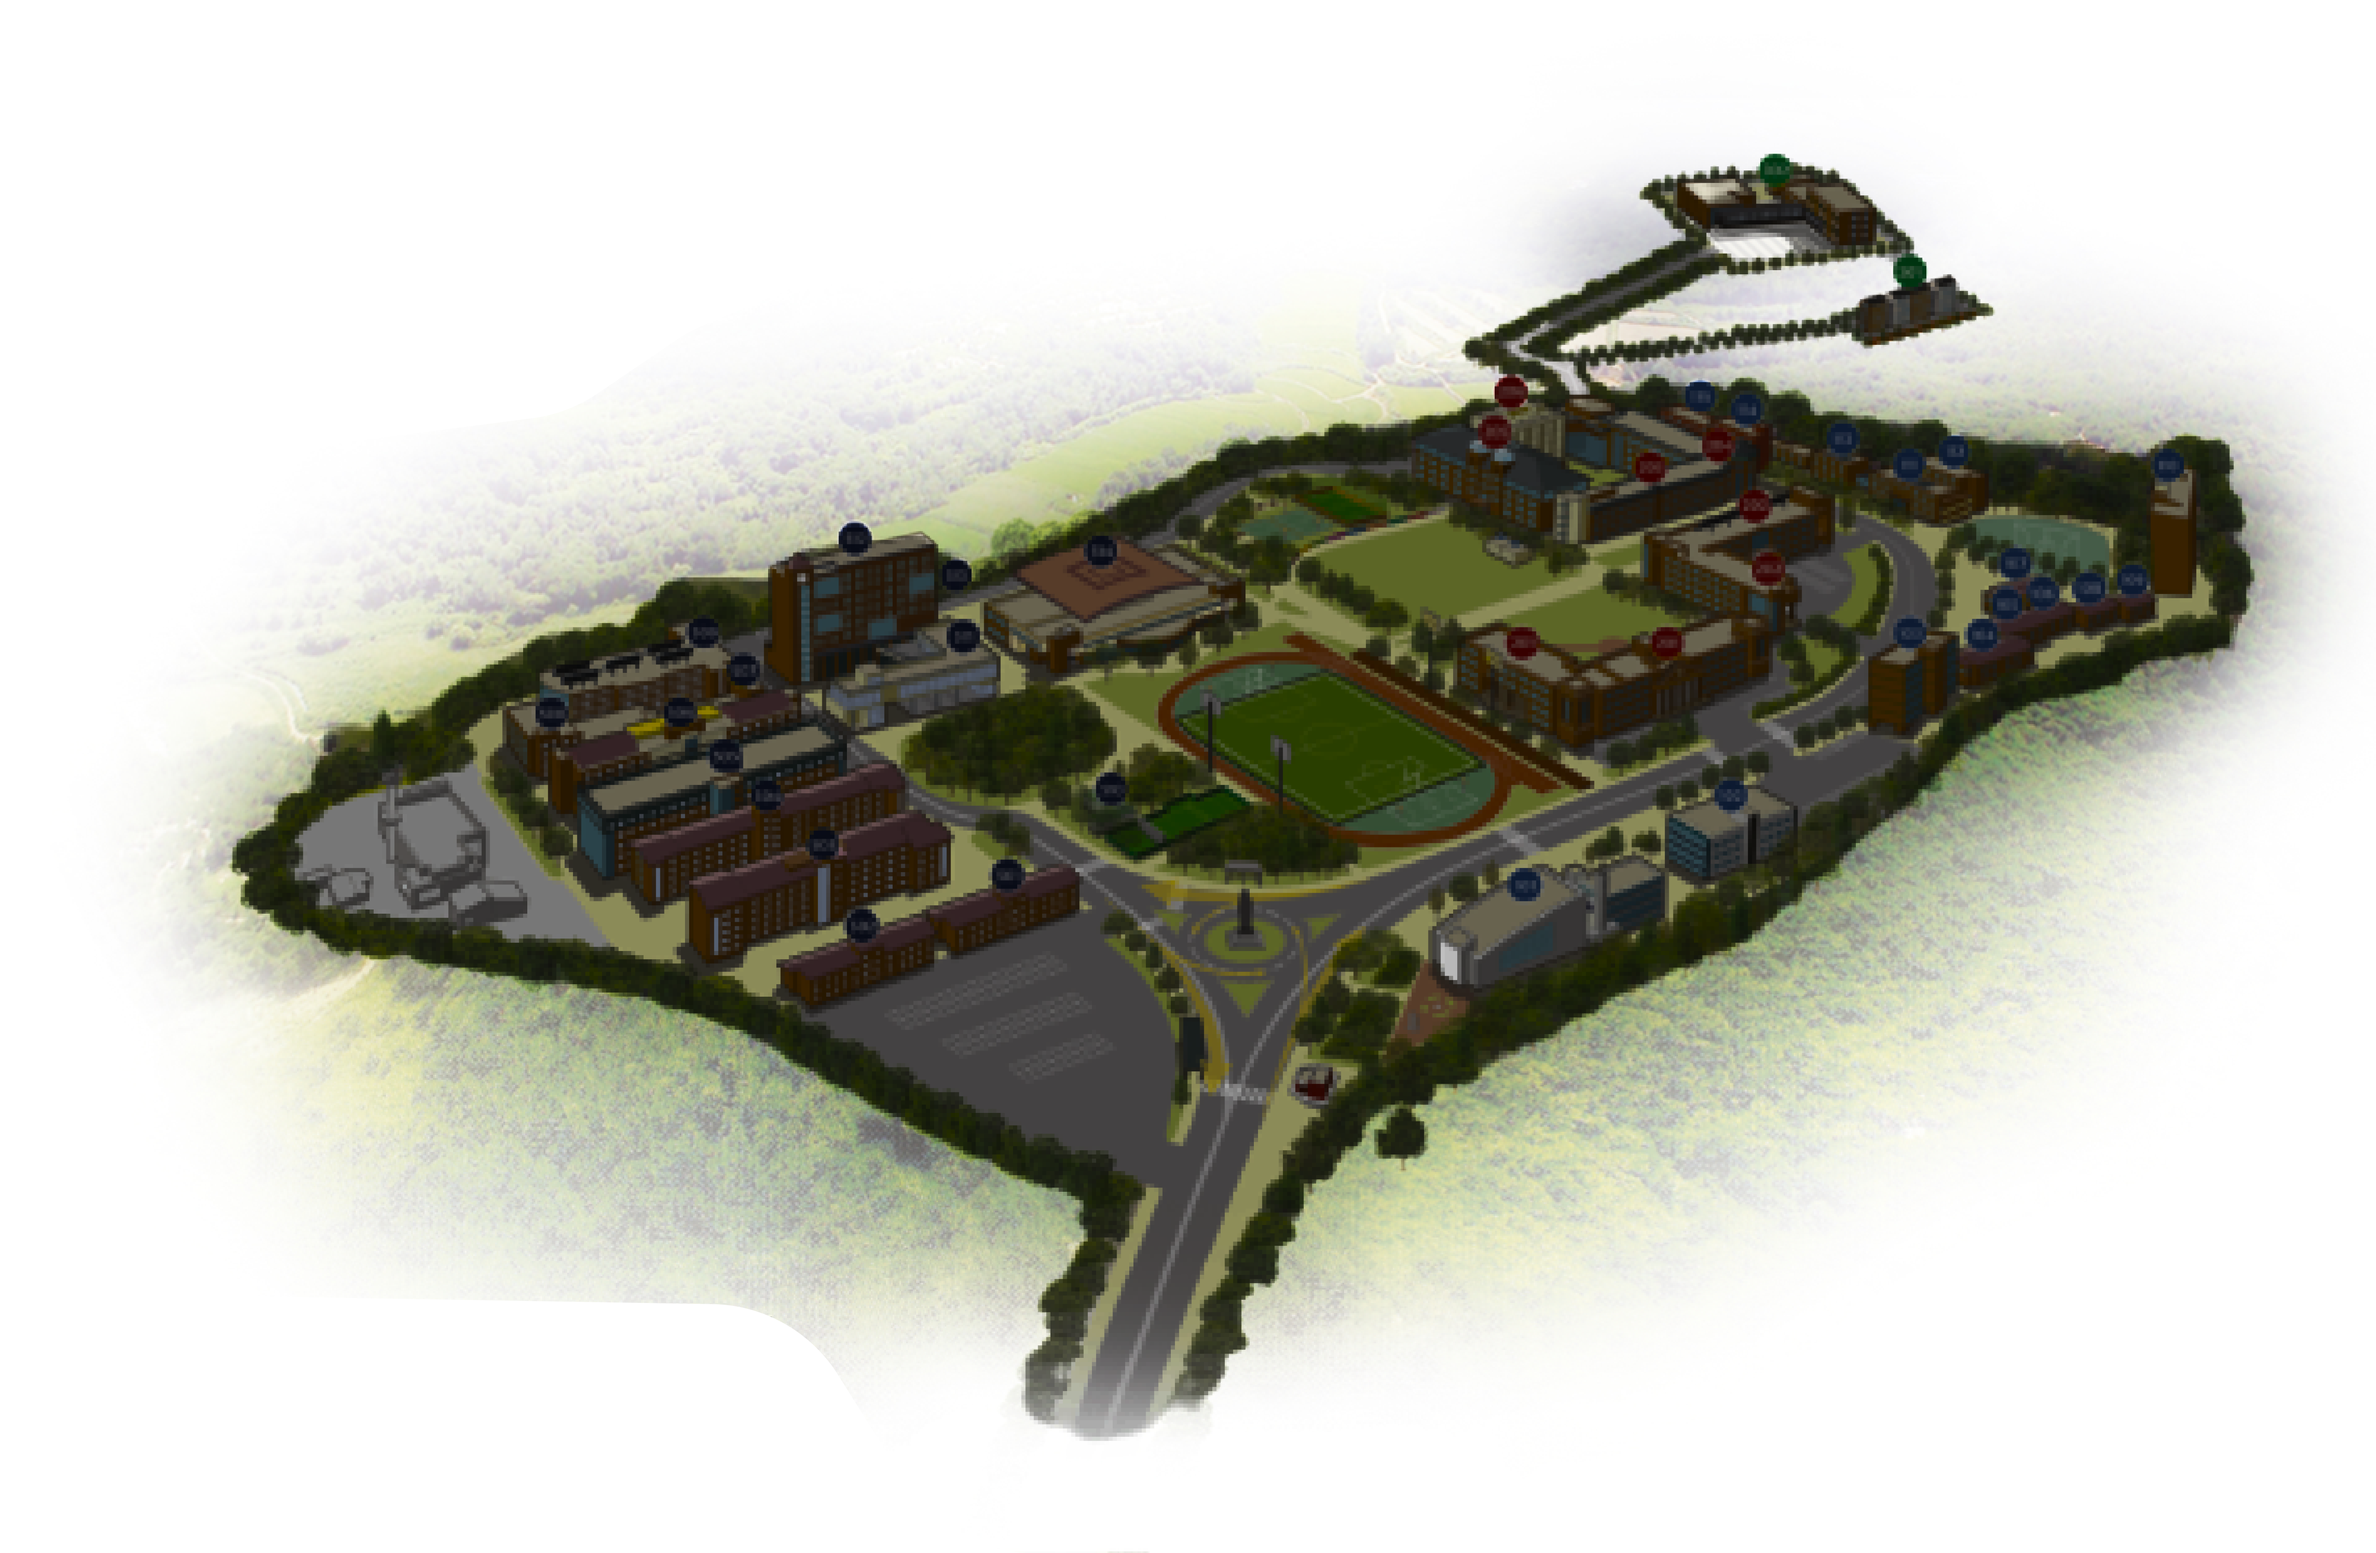
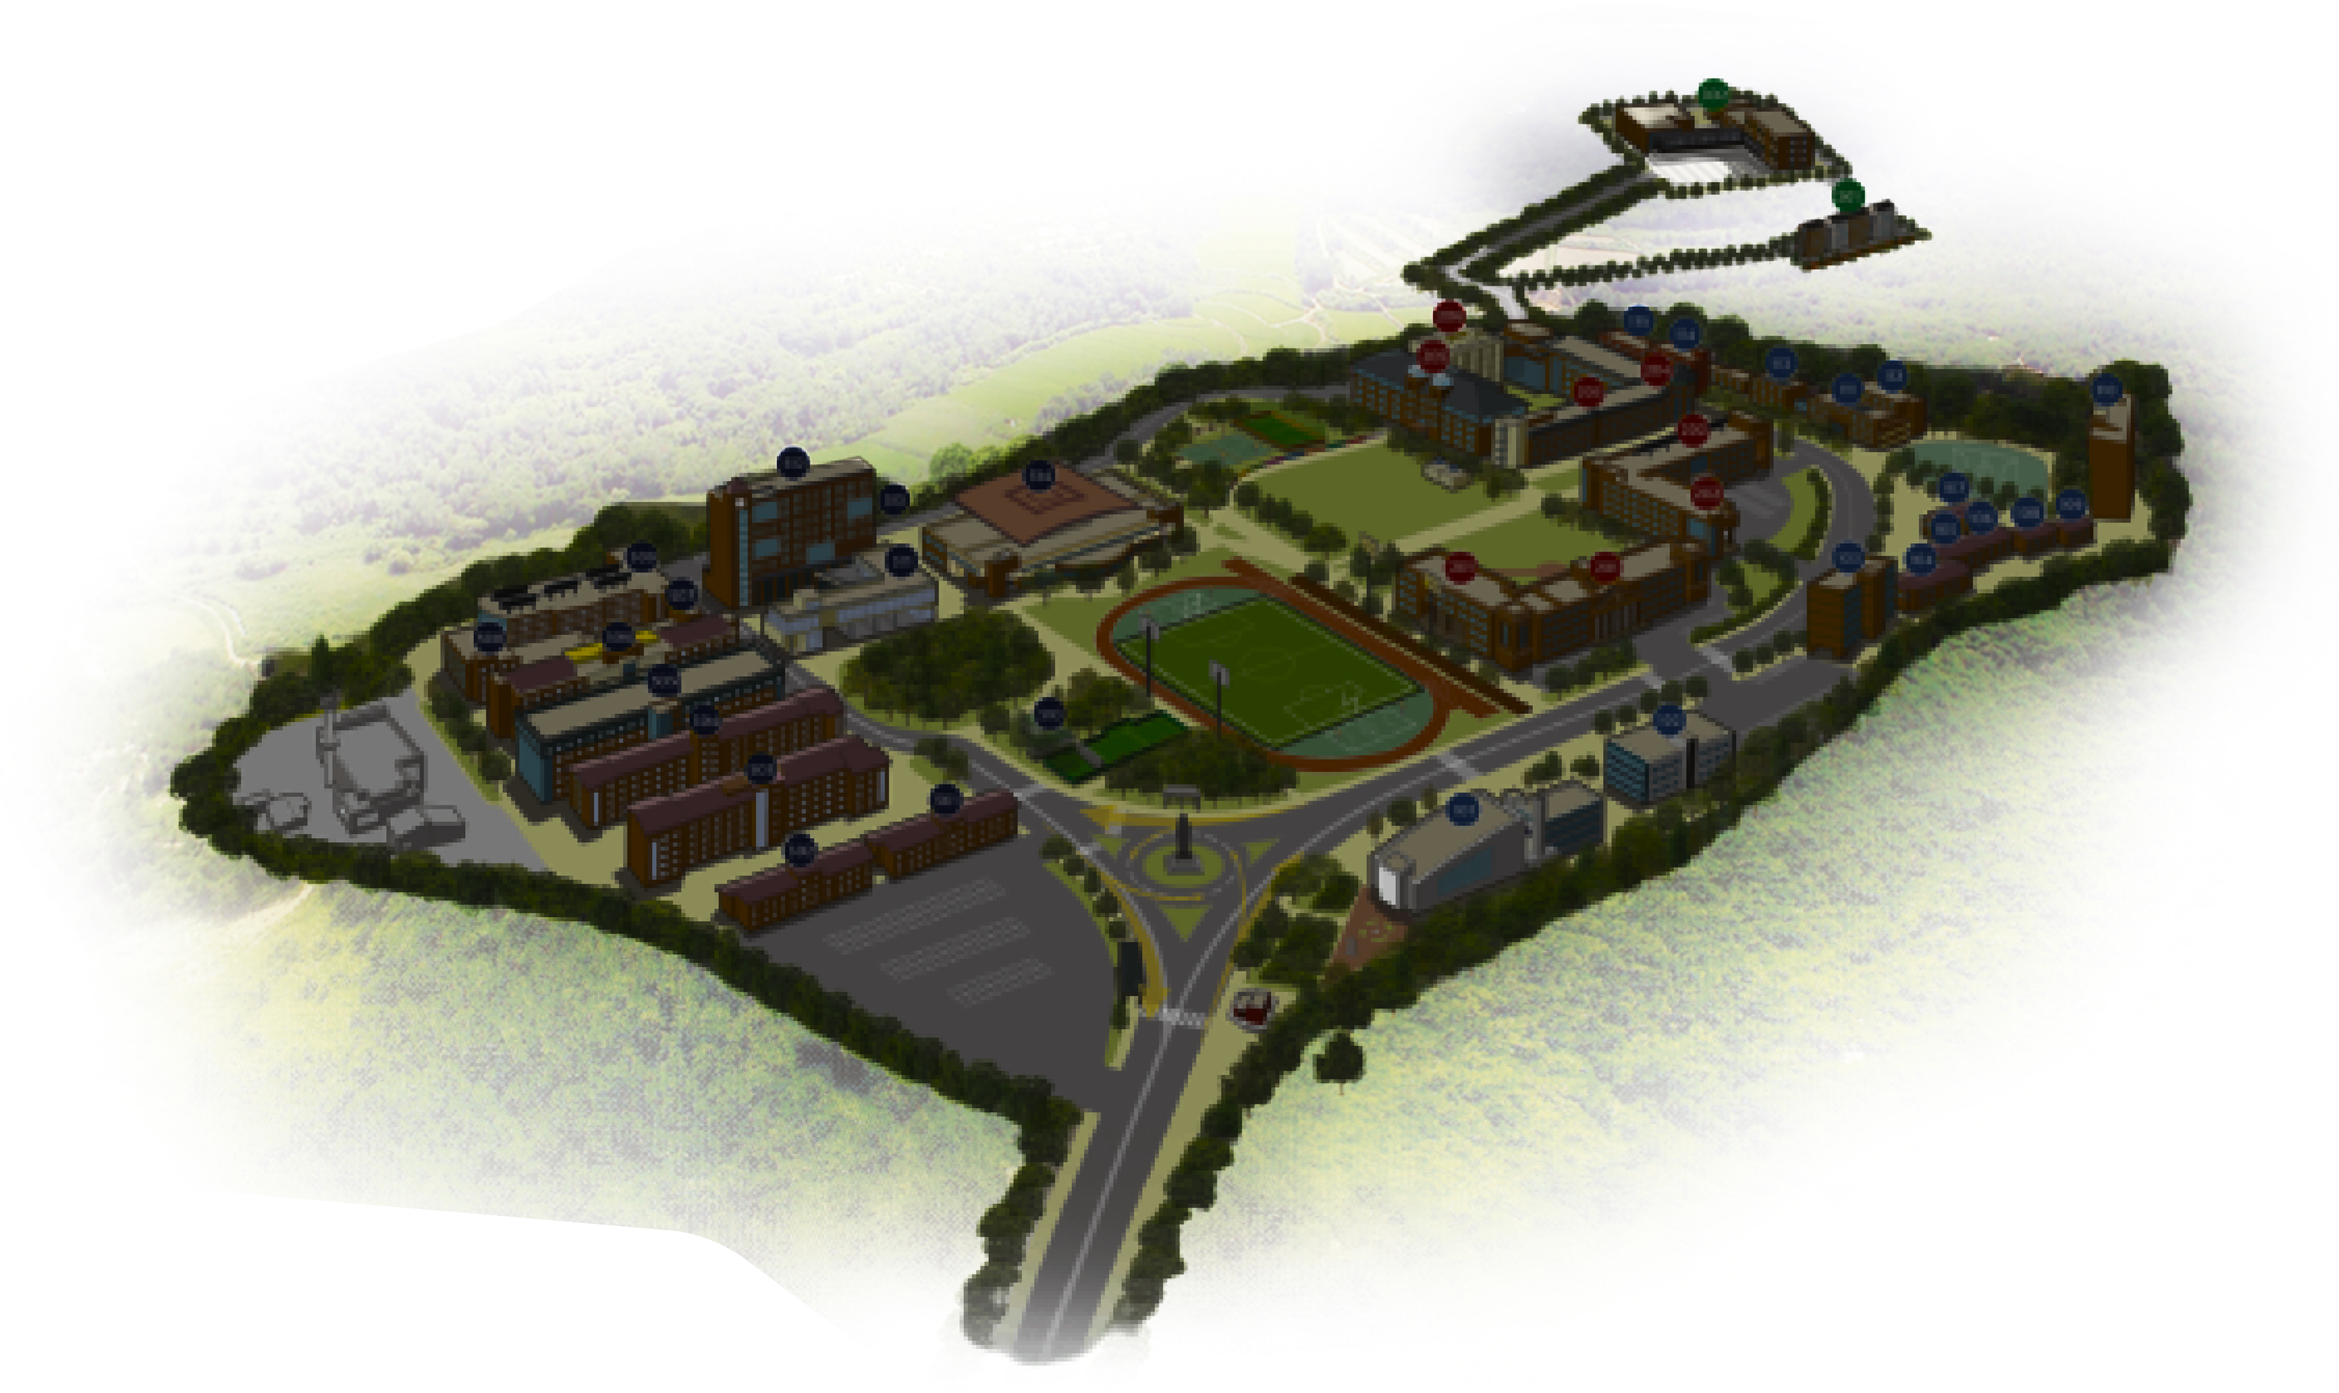
사진 크기 조정

diff --git a/client/src/App.css b/client/src/App.css
@@ -1,11 +1,14 @@
 /* App.css */
 .main-content {
   /* ✅ navigationbar hgith+margin 수정 필요 */
-  min-height: calc(100vh - 100px);
-  padding: 20px 40px;
+  min-height: calc(100vh - 80px);
+  padding: 0px 40px;
 }
 
 
 hr{
+  border: none; /* 기존 테두리 제거 */
+  height: 1px; /* 선의 두께 */
+  background-color: #d3d3d3; /* 연한 회색 */
   margin: 0 40px 0 40px;
 }

diff --git a/client/src/components/NavigationBar/NavigationBar.css b/client/src/components/NavigationBar/NavigationBar.css
@@ -9,6 +9,7 @@
     height: 60px;
 }
 
+
 .nav-links {
     list-style-type: none;
     display: flex;
@@ -19,7 +20,7 @@
 
 .nav-links li {
     /* display: inline; */
-    margin-left: 100px;
+    margin-left: 5vw;
 }
 
 

diff --git a/client/src/components/NavigationBar/NavigationBar.js b/client/src/components/NavigationBar/NavigationBar.js
@@ -3,8 +3,6 @@ import { Link } from 'react-router-dom';
 import './NavigationBar.css'
 
 function NavigationBar(){
-
-
     return (
         <nav className="navbar">
             <div className="navbar-logo">

diff --git a/client/src/pages/MapView/MapView.css b/client/src/pages/MapView/MapView.css
@@ -1,3 +1,3 @@
 .map{
-    width: 50%;
+    width: 80%;
 }
